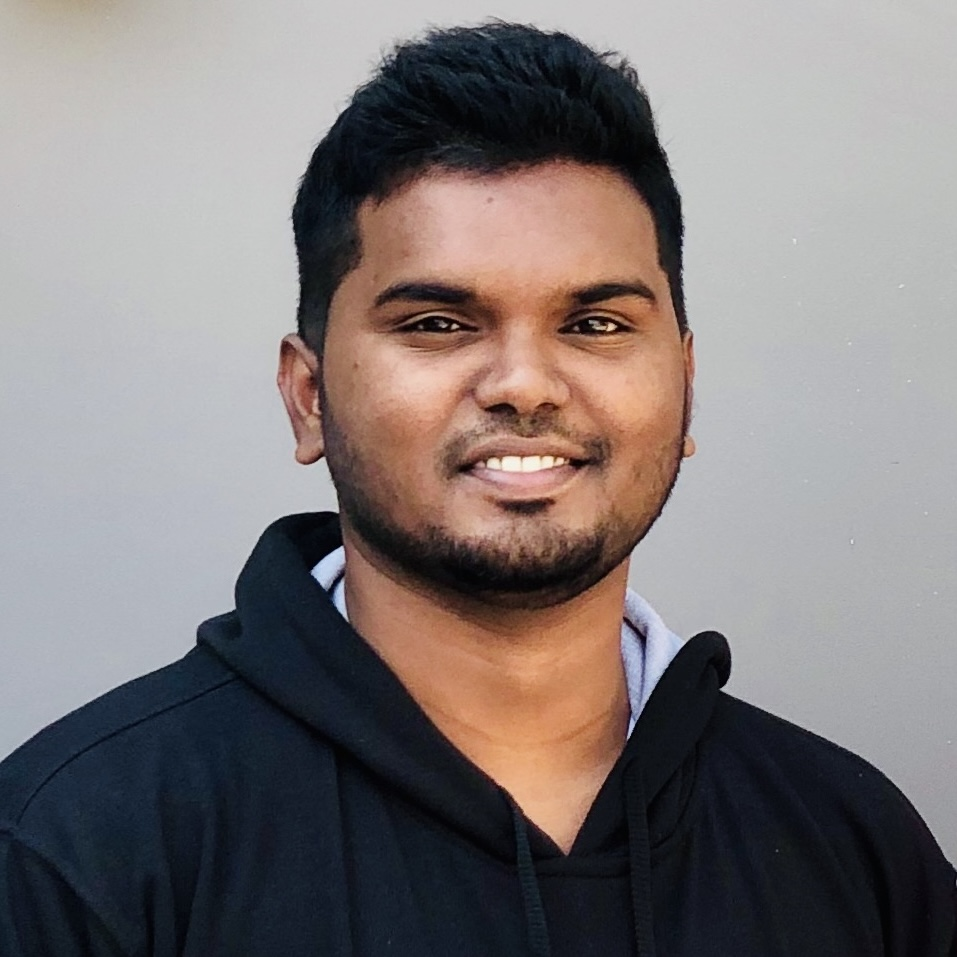
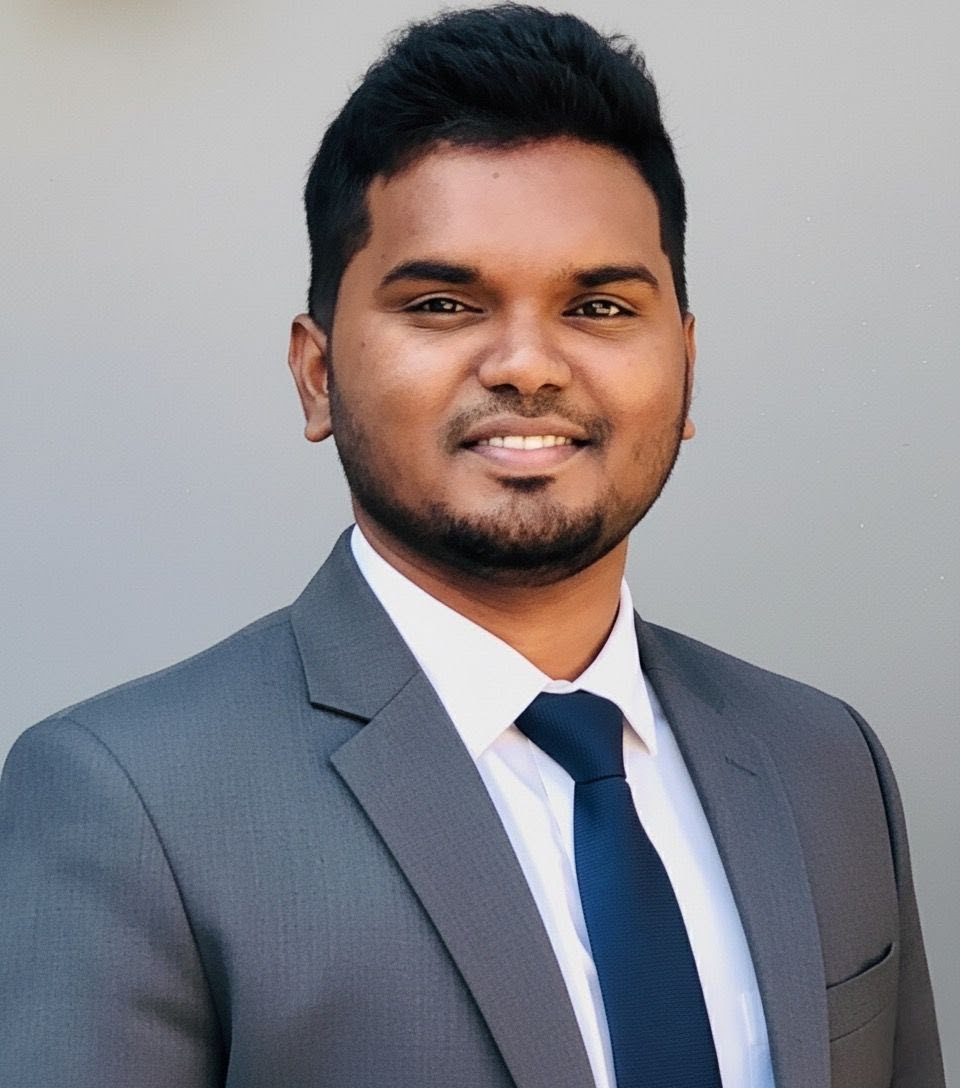
Add publications preview on homepage with full publications page

diff --git a/publications.html b/publications.html
@@ -1,0 +1,62 @@
+<!DOCTYPE html>
+<html lang="en">
+    <head>
+        <meta charset="utf-8" />
+        <meta name="viewport" content="width=device-width, initial-scale=1" />
+        <title>Publications | SPIKE Lab</title>
+        <meta
+            name="description"
+            content="Complete list of publications from SPIKE Lab, Cleveland Clinic."
+        />
+        <link rel="icon" type="image/png" href="assets/branding/favicon/lab-favicon.png" />
+        <link rel="preconnect" href="https://fonts.googleapis.com" />
+        <link rel="preconnect" href="https://fonts.gstatic.com" crossorigin />
+        <link
+            href="https://fonts.googleapis.com/css2?family=EB+Garamond:ital,wght@0,400..800;1,400..800&family=Google+Sans:ital,opsz,wght@0,17..18,400..700;1,17..18,400..700&display=swap"
+            rel="stylesheet"
+        />
+        <link rel="stylesheet" href="css/styles.css" />
+    </head>
+    <body class="detail-page">
+        <header class="site-header">
+            <div class="nav-wrapper">
+                <a class="brand" href="index.html#hero" aria-label="Go to SPIKE Lab home">
+                    <span class="brand-name">SPIKE Lab</span>
+                </a>
+                <nav aria-label="Site navigation">
+                    <ul class="nav-links detail-nav-links">
+                        <li><a href="index.html#about">About</a></li>
+                        <li><a href="index.html#research">Research</a></li>
+                        <li><a href="index.html#news">News</a></li>
+                        <li><a href="index.html#people">People</a></li>
+                        <li><a href="index.html#publications">Publications</a></li>
+                        <li><a href="index.html#photos">Photos</a></li>
+                        <li><a href="index.html#contact">Contact</a></li>
+                    </ul>
+                </nav>
+            </div>
+        </header>
+
+        <main class="page">
+            <div id="publications-page-root"></div>
+        </main>
+
+        <footer class="site-footer">
+            <div class="footer-left">
+                <p>&copy; 2026 SPIKE Lab. All rights reserved.</p>
+                <p>
+                    <a href="https://github.com/spikelab-ccf/spikelab.github.io" target="_blank" rel="noopener noreferrer">
+                        Website source code
+                    </a>
+                    is licensed under the MIT License.
+                </p>
+            </div>
+            <div class="footer-right">
+                <p>Seizure visualizations are AI-generated and do not include real patient data.</p>
+                <p>Cleveland Clinic Main Campus - Cleveland, OH, USA</p>
+            </div>
+        </footer>
+
+        <script src="js/render.js" defer></script>
+    </body>
+</html>

diff --git a/js/render.js b/js/render.js
@@ -640,12 +640,19 @@ function renderPeopleSection(content) {
   return node;
 }
 
-function renderPublicationsSection(content) {
+function renderPublicationsSection(content, options = {}) {
+  const preview = options.preview === true;
   const node = el("section", { attrs: { id: "publications" } });
   node.appendChild(el("h2", { text: content.title ?? "Publications" }));
   const container = el("div", { attrs: { id: "publications-list" } });
 
-  for (const group of content.groups ?? []) {
+  const allGroups = Array.isArray(content.groups) ? content.groups : [];
+  const previewCount = Number(content.previewCount);
+  const limited =
+    preview && Number.isFinite(previewCount) && previewCount > 0;
+  const groups = limited ? allGroups.slice(0, previewCount) : allGroups;
+
+  for (const group of groups) {
     const yearWrap = el("section", { className: "pub-year" });
     if (group.year != null && group.year !== "") {
       yearWrap.appendChild(
@@ -678,6 +685,19 @@ function renderPublicationsSection(content) {
   }
 
   node.appendChild(container);
+
+  if (limited && allGroups.length > previewCount) {
+    const moreWrap = el("div", { className: "pub-more" });
+    moreWrap.appendChild(
+      el("a", {
+        className: "pub-more-link",
+        text: "See all publications →",
+        attrs: { href: content.moreUrl || "publications.html" },
+      }),
+    );
+    node.appendChild(moreWrap);
+  }
+
   return node;
 }
 
@@ -851,22 +871,40 @@ function renderSections(data) {
   for (const [key, renderer] of renderers) {
     const content = data[key];
     if (!content) continue;
-    const node = renderer(content);
+    const node =
+      key === "publications"
+        ? renderer(content, { preview: true })
+        : renderer(content);
     if (node) root.appendChild(node);
   }
+}
+
+function renderPublicationsPage(data) {
+  const root = $("publications-page-root");
+  if (!root) return false;
+  clearChildren(root);
+  const content = data.publications;
+  if (content) {
+    root.appendChild(renderPublicationsSection(content, { preview: false }));
+  }
+  return true;
 }
 
 async function main() {
   try {
     const data = await loadJSON("contents.json");
     renderFavicon(data.site);
-    renderMeta(data.site);
     renderHeader(data.site);
+    renderFooter(data.site);
+
+    // Standalone publications page: render only the full publications list.
+    if (renderPublicationsPage(data)) return;
+
+    renderMeta(data.site);
     renderHero(data.site);
     renderMainBackground(data.site);
     renderNav(data);
     renderSections(data);
-    renderFooter(data.site);
   } catch (err) {
     console.error(err);
     document.body.insertAdjacentHTML(

diff --git a/css/styles.css b/css/styles.css
@@ -696,6 +696,21 @@ img {
     text-decoration: underline;
 }
 
+.pub-more {
+    margin-top: 16px;
+    padding-left: 18px;
+}
+
+.pub-more-link {
+    color: var(--link);
+    font-weight: 700;
+    text-decoration: none;
+}
+
+.pub-more-link:hover {
+    text-decoration: underline;
+}
+
 /* ---------------------------
    Carousel (Photos)
 ---------------------------- */